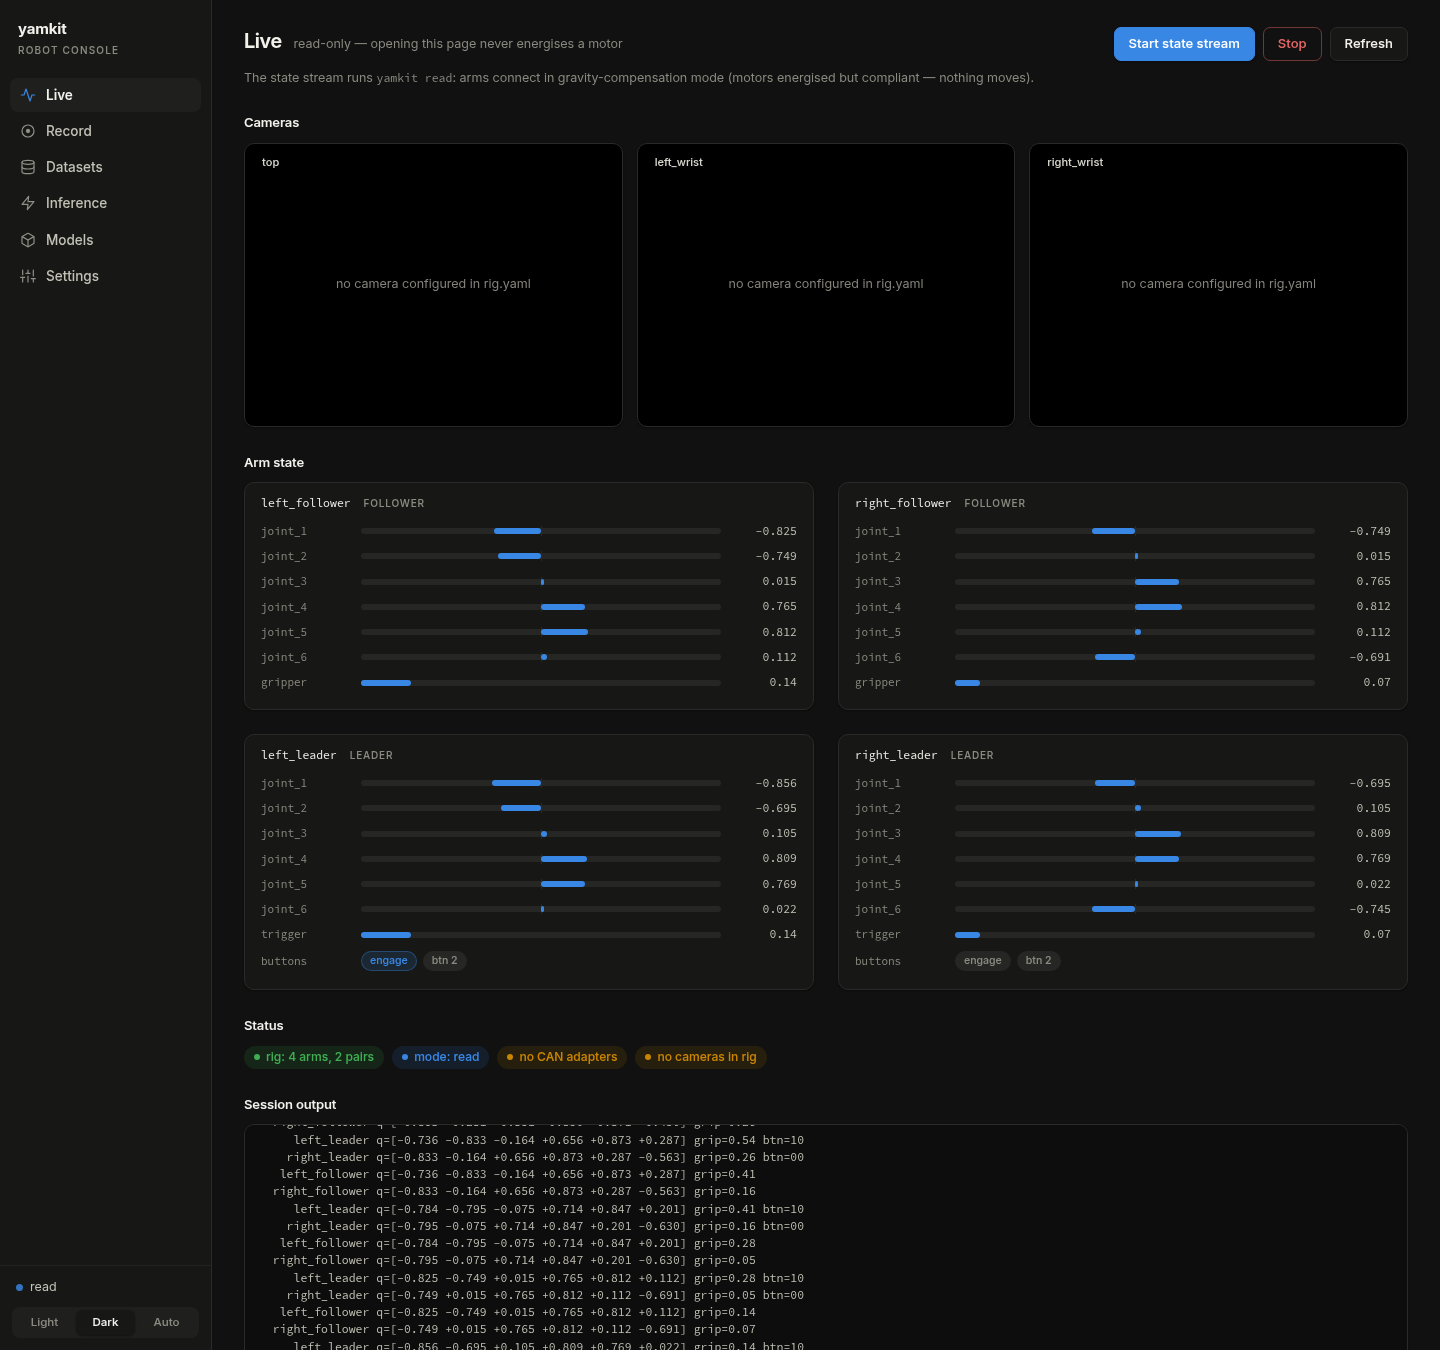
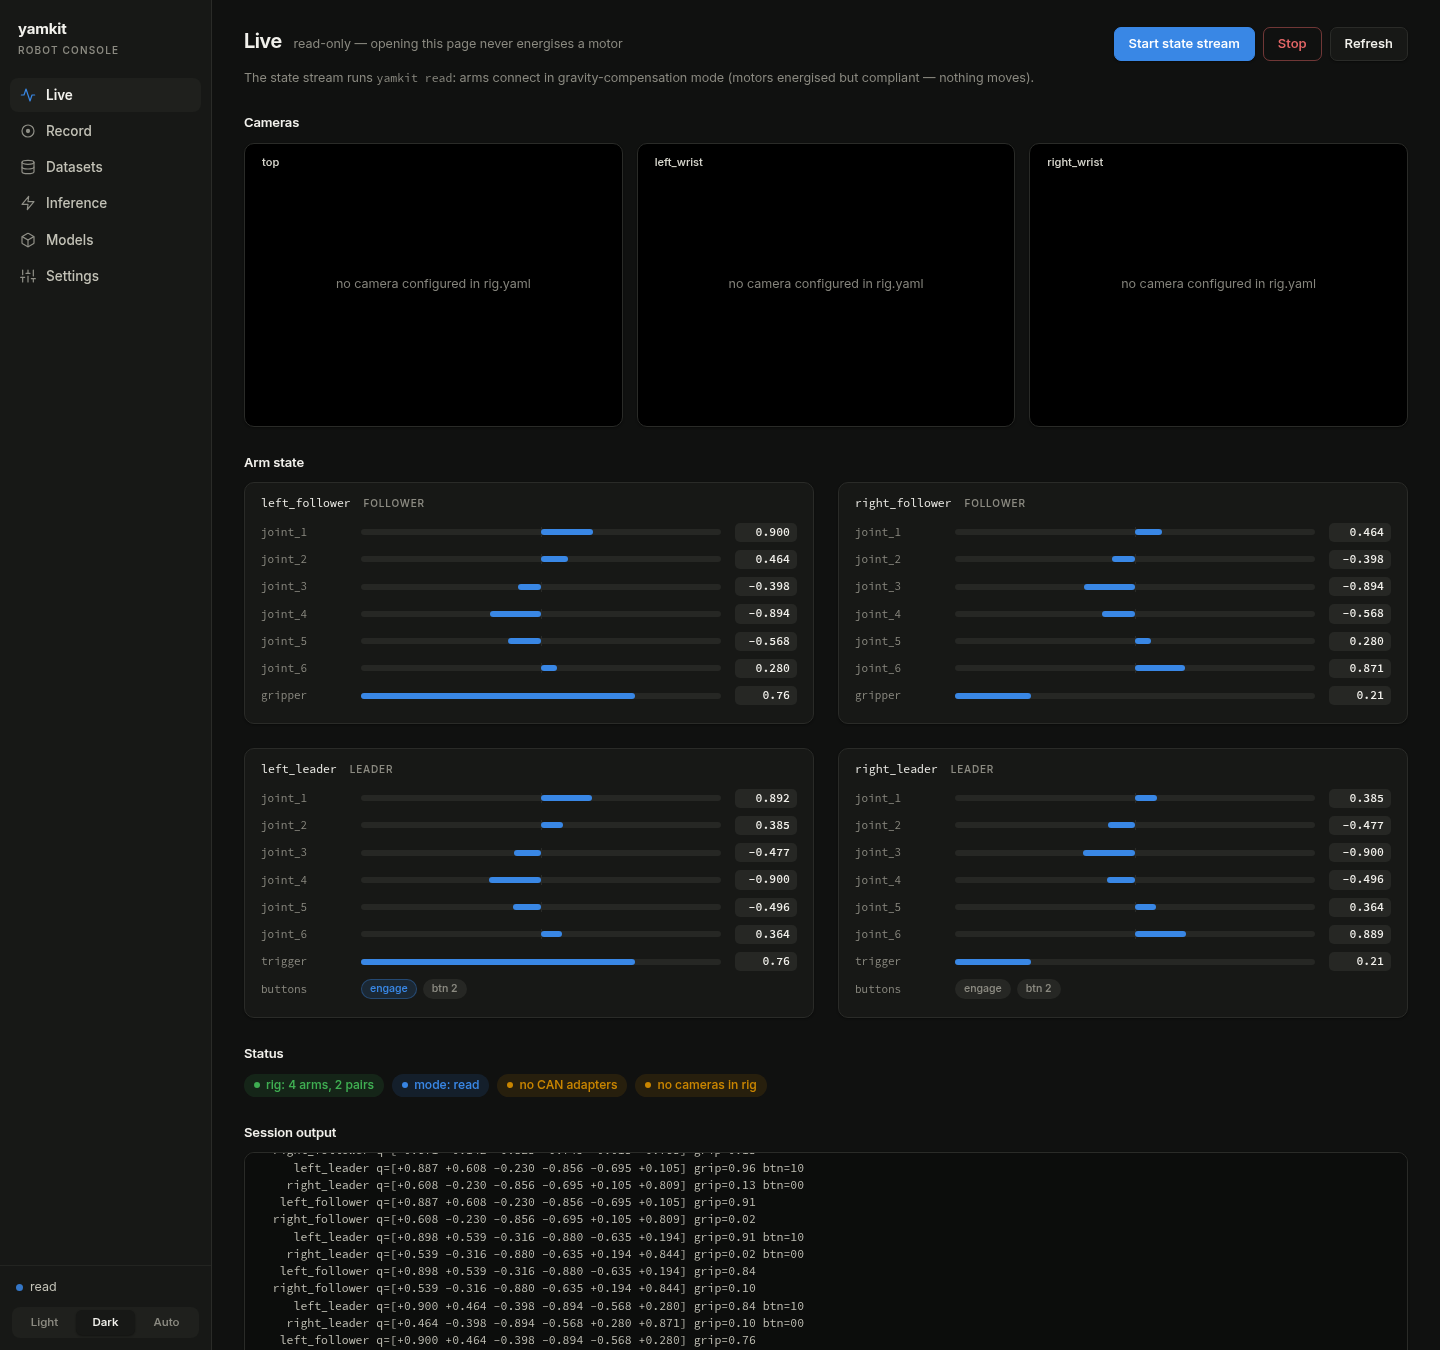
ui: highlight joint value readouts on the Live page
Joint/gripper/trigger numbers now sit in small tinted chips with brighter,
semibold, tabular-figure digits so they are easy to scan and don't jitter
while streaming. CSS-only change.

diff --git a/ui/style.css b/ui/style.css
@@ -254,7 +254,12 @@ input[type="checkbox"] { accent-color: var(--accent); }
 .joint .track { height: 6px; background: var(--surface-3); position: relative; border-radius: 3px; }
 .joint .track .mid { position: absolute; left: 50%; top: -2px; width: 1px; height: 10px; background: var(--border); }
 .joint .fill { position: absolute; top: 0; height: 6px; background: var(--series-state); border-radius: 3px; }
-.joint .val { text-align: right; color: var(--text-2); font-family: ui-monospace, "SF Mono", Menlo, monospace; font-size: 11.5px; }
+.joint .val {
+  justify-self: end; text-align: right;
+  color: var(--text); font-family: ui-monospace, "SF Mono", Menlo, monospace;
+  font-size: 11.5px; font-weight: 600; font-variant-numeric: tabular-nums;
+  background: var(--surface-3); border-radius: 5px; padding: 1px 7px; min-width: 62px;
+}
 .role-tag { font-size: 10px; font-family: "InterVariable", Inter, sans-serif; font-weight: 550; text-transform: uppercase; letter-spacing: 0.08em; margin-left: 6px; }
 .btns { display: flex; gap: 6px; }
 .btn-ind {
